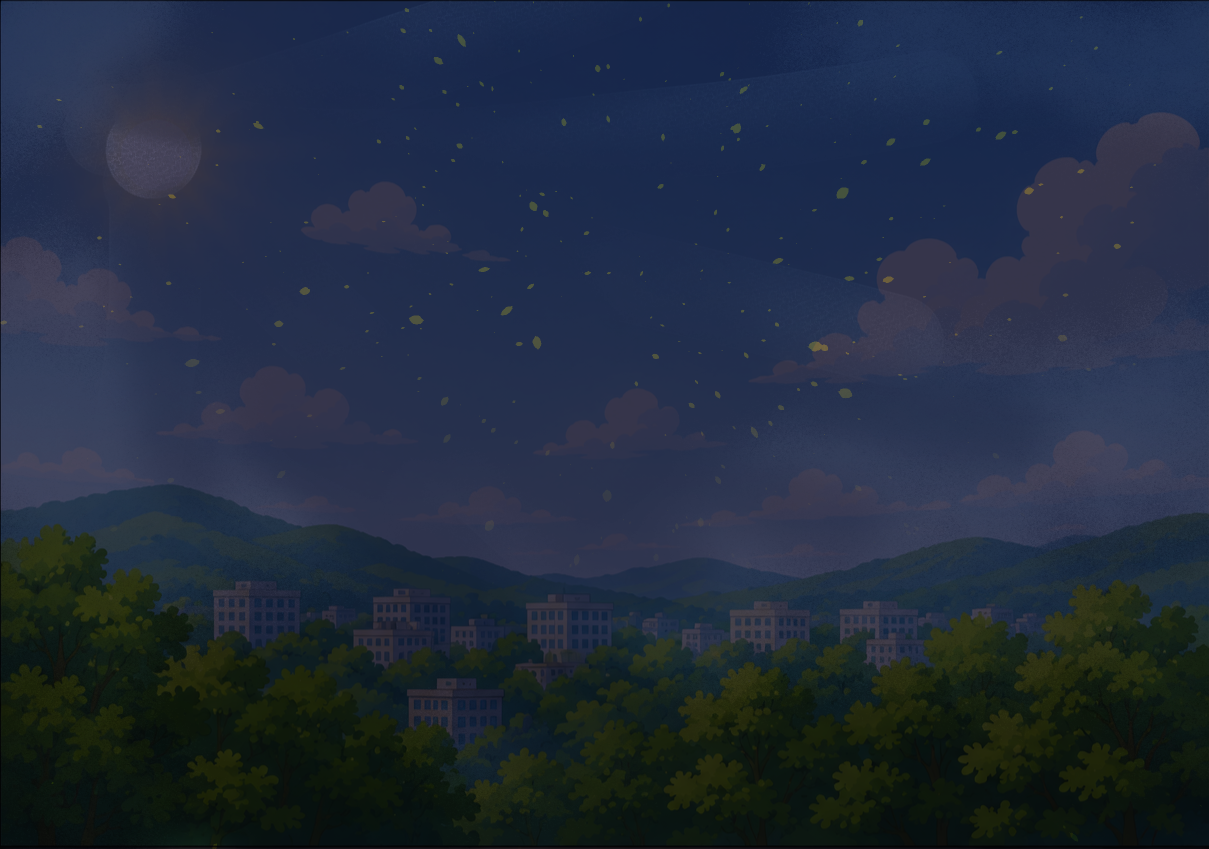
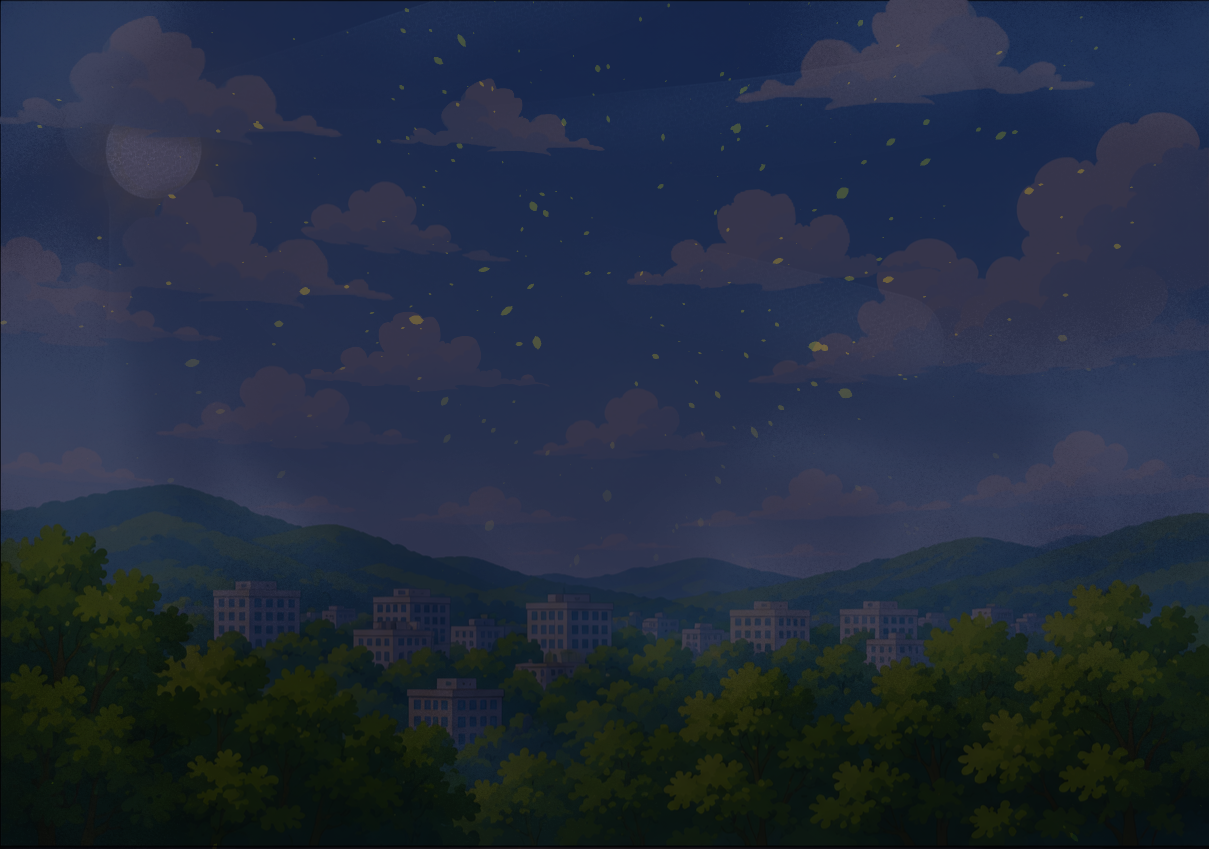
changing Sunny for Clear
makes more sense in the night

diff --git a/main.js b/main.js
@@ -10,8 +10,8 @@ let currentIsDay = 1;
 let selectedIsDay = 1;
 
 const weatherCodes = { //making the codes into an object
-    0: "Sunny",
-    1: "Mostly Sunny",
+    0: "Clear",
+    1: "Mostly Clear",
     2: "Partly Cloudy",
     3: "Cloudy",
     61: "Rainy",
@@ -83,7 +83,7 @@ const getWeather = async () => { //we use async an await to fetch the api
         }
         else {
             dayNightElement.textContent =
-                "It is currently nighttime. 🌙";
+                "It is currently night time. 🌙";
         }
 
 
@@ -95,12 +95,12 @@ const getWeather = async () => { //we use async an await to fetch the api
         const weatherImage = document.getElementById("weatherImage");
         function updateImage(condition, isDay) {
 
-            if (condition === "Sunny" && isDay === 1) { //sunny day
+            if (condition === "Clear" && isDay === 1) { //sunny day
 
                 weatherImage.src = "images/day/sunny.png";
 
             }
-            else if (condition === "Sunny" && isDay === 0) { //sunny night
+            else if (condition === "Clear" && isDay === 0) { //sunny night
 
                 weatherImage.src = "images/night/sunny.png";
 
@@ -125,12 +125,12 @@ const getWeather = async () => { //we use async an await to fetch the api
                 weatherImage.src = "images/night/snowy.png";
 
             }
-            else if (condition === "Mostly Sunny" && isDay === 1) { //mostly sunny day
+            else if (condition === "Mostly Clear" && isDay === 1) { //mostly sunny day
 
                 weatherImage.src = "images/day/mostlySunny.png";
 
             }
-            else if (condition === "Mostly Sunny" && isDay === 0) { //mostly sunny night
+            else if (condition === "Mostly Clear" && isDay === 0) { //mostly sunny night
 
                 weatherImage.src = "images/night/mostlySunny.png";
 
@@ -164,16 +164,7 @@ const getWeather = async () => { //we use async an await to fetch the api
             // Gets the value of the selected option
             const selectedWeather = weatherSelect.value;
 
-            if (selectedWeather === "Current") {
-
-                updateImage(currentCondition, currentIsDay);
-
-            }
-            else {
-
-                updateImage(selectedWeather, currentIsDay);
-
-            }
+            updateImage(selectedWeather, currentIsDay);
 
         });
         

diff --git a/index.html b/index.html
@@ -47,16 +47,12 @@
 
                 <select id="weatherSelect">
 
-                    <option value="current">
-                        Current Weather
+                    <option value="Clear">
+                        Clear
                     </option>
 
-                    <option value="Sunny">
-                        Sunny
-                    </option>
-
-                    <option value="Mostly Sunny">
-                        Mostly Sunny
+                    <option value="Mostly Clear">
+                        Mostly Clear
                     </option>
 
                     <option value="Cloudy">
